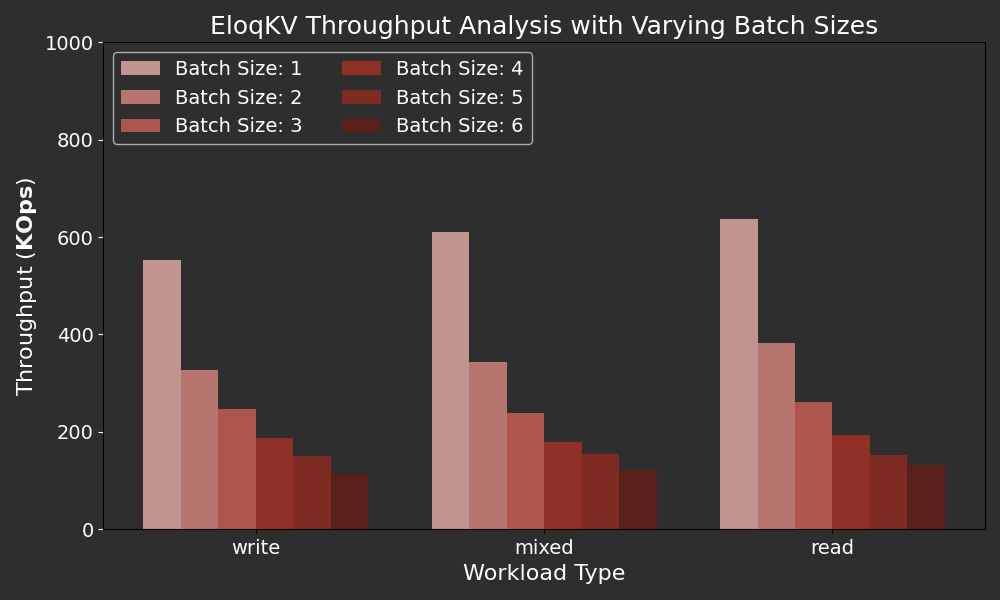
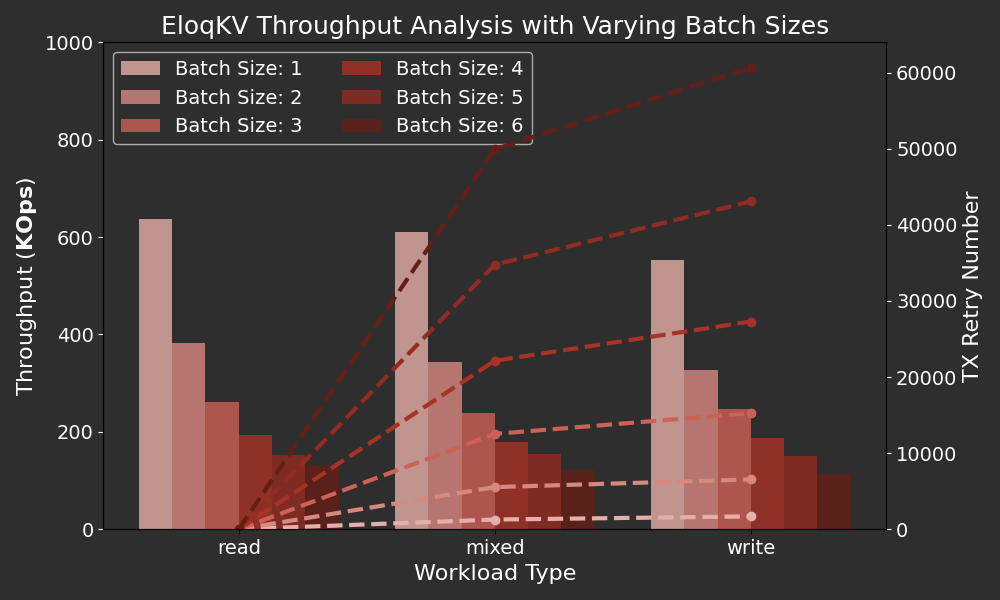
Update

diff --git a/website/blog/2024-09-01-benchmark-transaction/img/eloqkv_cluster_batch_size_dark.py b/website/blog/2024-09-01-benchmark-transaction/img/eloqkv_cluster_batch_size_dark.py
@@ -11,18 +11,39 @@ import globals
 # plt.style.use('dark_background')
 
 # Data for read workload
-read_concurrency_levels = ["write", "mixed", "read"]
+read_concurrency_levels = ["read", "mixed", "write"]
 
 # redis_read_throughput = [223.579,212.677,203.522,189.701]  # converted to K
 # dragonfly_read_throughput = [992.120,1529.612,1750.050, 1750.024]  # converted to K
 # eloqkv_read_throughput = [959.015,1405.901,1697.739,1593.660]
 # kvrocks_d1=[7.188,7.482,7.532]
-eloqkv_b1 = [552.821, 610.495, 637.585]
-eloqkv_b2 = [327.373, 342.626, 383.335]
-eloqkv_b3 = [247.061, 239.161, 261.655]
-eloqkv_b4 = [188.104, 178.573, 192.970]
-eloqkv_b5 = [150.262, 153.487, 153.347]
-eloqkv_b6 = [114.269, 122.170, 132.704]
+#eloqkv_b1 = [552.821, 610.495, 637.585]
+#eloqkv_b2 = [327.373, 342.626, 383.335]
+#eloqkv_b3 = [247.061, 239.161, 261.655]
+#eloqkv_b4 = [188.104, 178.573, 192.970]
+#eloqkv_b5 = [150.262, 153.487, 153.347]
+#eloqkv_b6 = [114.269, 122.170, 132.704]
+
+#eloqkv_b1_retry=[314,243,0]
+#eloqkv_b2_retry=[1421,1102,0]
+#eloqkv_b3_retry=[3320,2802,0]
+#eloqkv_b4_retry=[6349,5189,0]
+#eloqkv_b5_retry=[9972,7961,0]
+#eloqkv_b6_retry=[14784,12168,0]
+
+eloqkv_b1= [637.585, 610.495, 552.821]
+eloqkv_b2= [383.335, 342.626, 327.373]
+eloqkv_b3= [261.655, 239.161, 247.061]
+eloqkv_b4= [192.970, 178.573, 188.104]
+eloqkv_b5= [153.347, 153.487, 150.262]
+eloqkv_b6= [132.704, 122.170, 114.269]
+
+eloqkv_b1_retry= [0, 1271, 1684]
+eloqkv_b2_retry= [0, 5535, 6547]
+eloqkv_b3_retry= [0, 12529, 15255]
+eloqkv_b4_retry= [0, 22144, 27302]
+eloqkv_b5_retry= [0, 34783, 43087]
+eloqkv_b6_retry= [0, 49952, 60674]
 
 # redis_read_latency = [0.786,1.983,4.788,11.412]
 # dragonfly_read_latency = [0.252,0.444,0.956,2.191]
@@ -102,15 +123,17 @@ ax1.set_ylim(0, 1000)  # Adjust this value to leave more space at the top
 ax1.tick_params(axis='y',labelsize=globals.axis_value_size, colors='white')
 
 # Latency data (line graph)
-# ax2 = ax1.twinx()
-# line1_read = ax2.plot(index_read, eloqkv_d8_lat, 'b--', marker='o', color='#208B8E', label='EloqKV 32C 1D Latency', linewidth=3)
-# line2_read = ax2.plot(index_read, eloqkv_d10_lat, 'g--', marker='o', color='#739C23', label='EloqKV 32C 2D Latency', linewidth=3)
-# line3_read = ax2.plot(index_read, eloqkv_d8_48_lat, 'r--', marker='o', color='#E07D28', label='EloqKV 32C 4D Latency', linewidth=3)
-# line3_read = ax2.plot(index_read, eloqkv_d10_48_lat, 'r--', marker='o', color='#D64326', label='EloqKV 32C 6D Latency', linewidth=3)
+ax2 = ax1.twinx()
+line1_read = ax2.plot(index_read, eloqkv_b1_retry, '--', marker='o', color=globals.group_1, linewidth=3)
+line2_read = ax2.plot(index_read, eloqkv_b2_retry, '--', marker='o', color=globals.group_2, linewidth=3)
+line3_read = ax2.plot(index_read, eloqkv_b3_retry, '--', marker='o', color=globals.group_3, linewidth=3)
+line4_read = ax2.plot(index_read, eloqkv_b4_retry, '--', marker='o', color=globals.group_4, linewidth=3)
+line5_read = ax2.plot(index_read, eloqkv_b5_retry, '--', marker='o', color=globals.group_5, linewidth=3)
+line6_read = ax2.plot(index_read, eloqkv_b6_retry, '--', marker='o', color=globals.group_6, linewidth=3)
 
-# ax2.set_ylabel('Avg Latency ($\mathbf{ms}$)', color='white', fontsize=16)
-# ax2.tick_params(axis='y', colors='white')
-# ax2.set_ylim(0, 15)  # Adjust this value to leave more space at the top
+ax2.set_ylabel('TX Retry Number', color='white', fontsize=globals.axis_label_size)
+ax2.set_ylim(0, 64000)  # Adjust this value to leave more space at the top
+ax2.tick_params(axis='y',labelsize=globals.axis_value_size, colors='white')
 
 # Combine legends from both axes
 lines, labels = ax1.get_legend_handles_labels()

diff --git a/website/blog/2024-09-01-benchmark-transaction/index.md b/website/blog/2024-09-01-benchmark-transaction/index.md
@@ -95,12 +95,16 @@ Below are the performance results of **EloqKV** `Multi Exec` command with differ
 <p align="center">
 <div style={{ width: '720px', textAlign: 'center'}}>
 
-<EnlargeableImage src={require('./img/eloqkv_batch_size.png').default} alt="EloqKV vs Redis Transaction" />
+<EnlargeableImage src={require('./img/eloqkv_cluster_batch_size.png').default} alt="EloqKV vs Redis Transaction" />
 
 </div></p>
 
 `X-axis`: Represents the different workload types (read/write/mixed) used in the benchmark, simulating a range of real-world scenarios.
 
-`Y-axis`: Throughput in Thousand OPS (Operations Per Second).
+`Left Y-axis`: Throughput in Thousand OPS (Operations Per Second).
 
-The results show that **EloqKV**’s throughput decreases as the batch size increases. This is because larger batch sizes introduce additional transaction overhead. For read requests, each key must be read and then validated during the transaction commit phase to ensure that RepeatableRead isolation is maintained. For write requests, a write lock must be acquired for each key and then released, along with updating the value during the transaction commit phase. Although the throughput per `Multi Exec` command declines with larger batch sizes, the total KV ops processed per second (KPS) increases. For instance, with a batch size of 1, the KPS is 700,000, while with a batch size of 6, it rises to 2 million.
+`Right Y-axis`: Transaction Retry Number.
+
+The results show that **EloqKV**’s throughput decreases as the batch size increases. This is because larger batch sizes introduce additional transaction overhead. For read requests, each key must be read and then validated during the transaction commit phase to ensure that RepeatableRead isolation is maintained. For write requests, a write lock must be acquired for each key and then released, along with updating the value during the transaction commit phase.
+
+Additionally, we observed that the number of transaction retries increases with larger batch sizes in mixed and write-only workloads. This is because larger batch sizes raise the likelihood of transaction conflicts. Notably, for read-only workloads, the transaction retry count is zero, which aligns with expectations.
